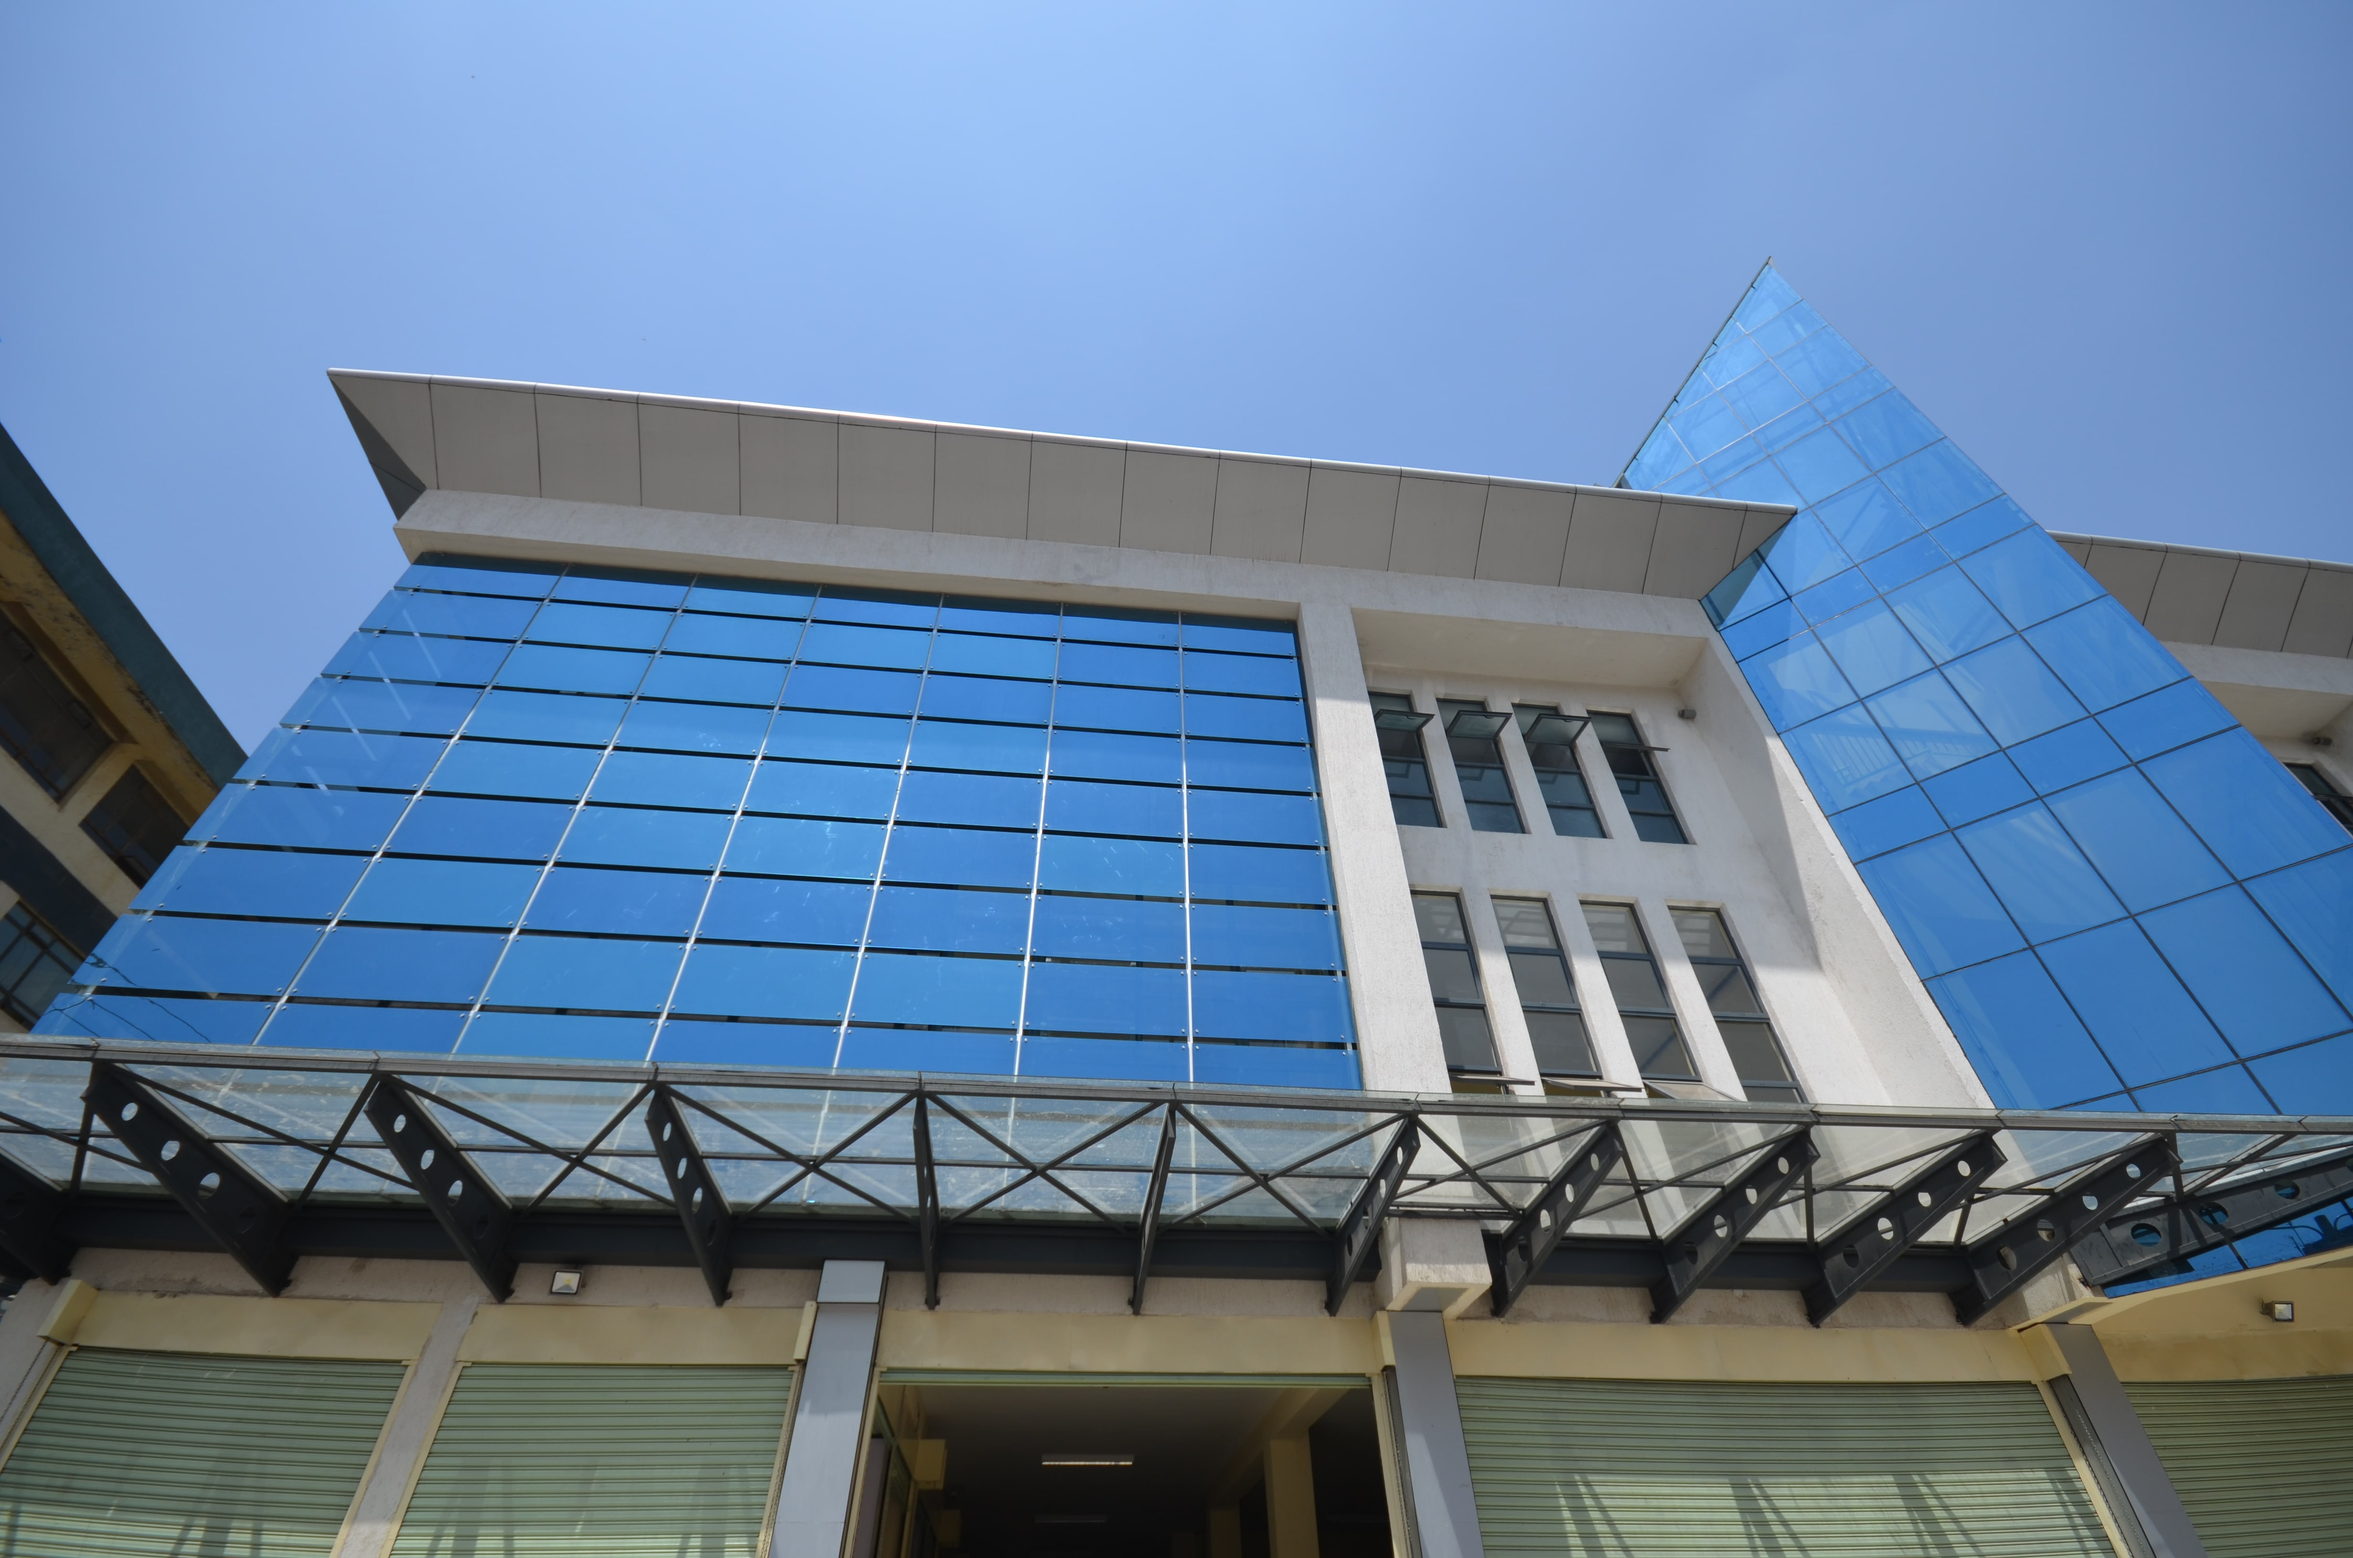
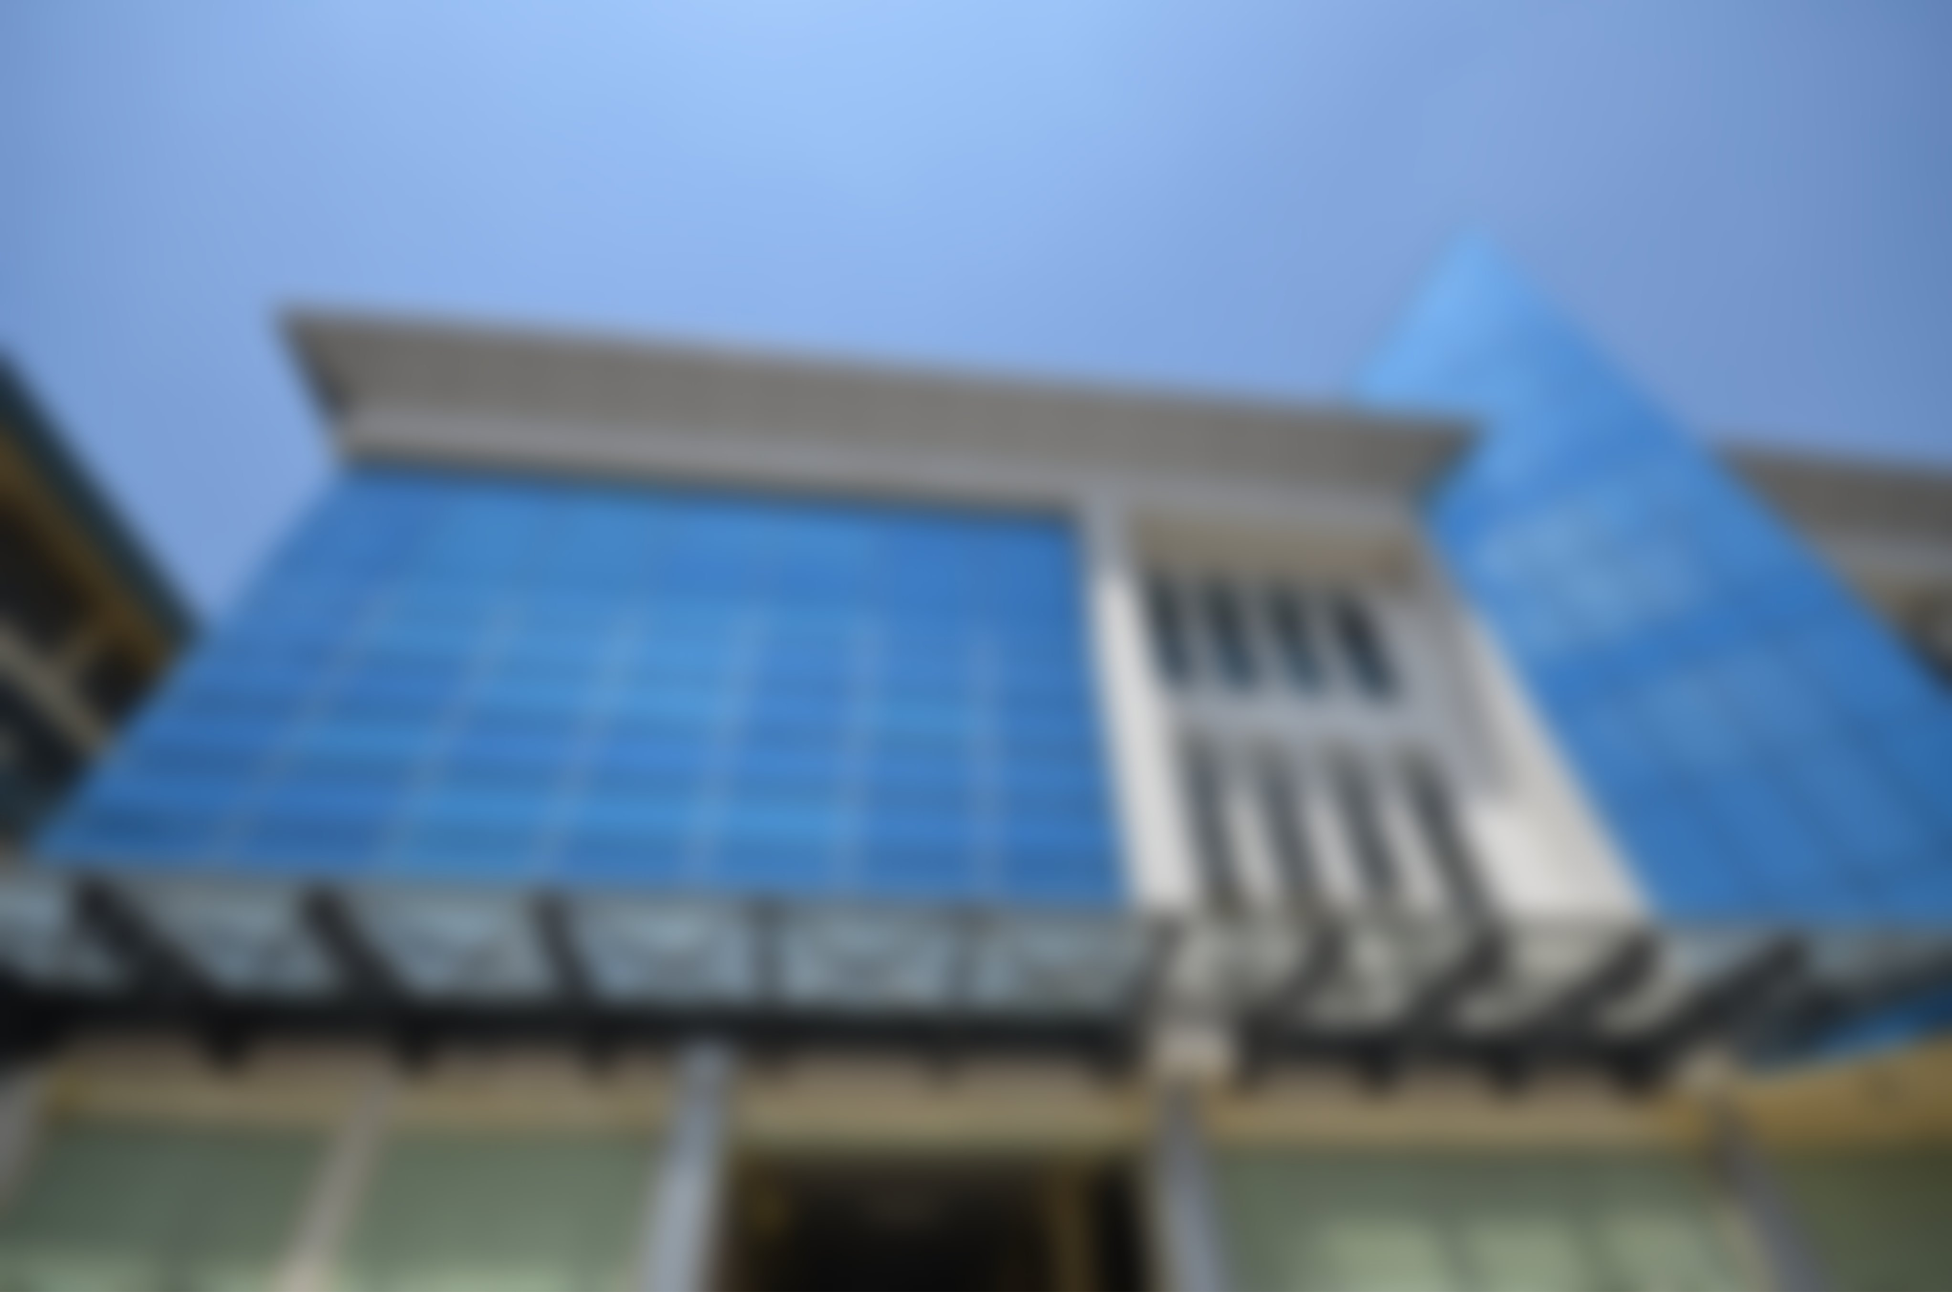
change hero background

diff --git a/index.html b/index.html
@@ -2,6 +2,7 @@
 <html lang="en">
 
 <head>
+    
     <title>Yare Business Park</title>
     <!-- Required meta tags -->
     <meta charset="utf-8">
@@ -57,7 +58,7 @@
 
                         <div class="carousel-inner">
                             <div class="carousel-item active">
-                                <img src="assets/images/Yare-17.jpg" class="img-fluid d-block w-90" alt="...">
+                                <img src="assets/images/Yare-36.jpg" class="img-fluid d-block w-90" alt="...">
                                 <div class="carousel-caption d-none d-md-block text-right pb-5">
                                     <h5 class="display-4">First slide label</h5>
                              
@@ -297,14 +298,14 @@
                               <img src="assets/images/img_2.jpg" class="card-img-top" alt="...">
                               <div class="card-body">
                                 <h5 class="card-title">Card title</h5>
-                                <p class="card-text"><small class="text-muted">Last updated 3 mins ago</small></p>
+                                <p class="card-text"><small class="text-primary">Last updated 3 mins ago</small></p>
                               </div>
                             </div>
                             <div class="card">
                               <img src="assets/images/img_2.jpg" class="card-img-top" alt="...">
                               <div class="card-body">
                                 <h5 class="card-title">Card title</h5>
-                                <p class="card-text"><small class="text-muted">Last updated 3 mins ago</small></p>
+                                <p class="card-text"><small class="text-danger">Last updated 3 mins ago</small></p>
 
                               </div>
                             </div>
@@ -312,7 +313,7 @@
                               <img src="assets/images/img_2.jpg" class="card-img-top" alt="...">
                               <div class="card-body">
                                 <h5 class="card-title">Card title</h5>
-                                <p class="card-text"><small class="text-muted">Last updated 3 mins ago</small></p>
+                                <p class="card-text"><small class="text-info">Last updated 3 mins ago</small></p>
 
                               </div>
                             </div>
@@ -324,14 +325,14 @@
                               <img src="assets/images/img_2.jpg" class="card-img-top" alt="...">
                               <div class="card-body">
                                 <h5 class="card-title">Card title</h5>
-                                <p class="card-text"><small class="text-muted">Last updated 3 mins ago</small></p>
+                                <p class="card-text"><small class="text-secondary">Last updated 3 mins ago</small></p>
                               </div>
                             </div>
                             <div class="card">
                               <img src="assets/images/img_2.jpg" class="card-img-top" alt="...">
                               <div class="card-body">
                                 <h5 class="card-title">Card title</h5>
-                                <p class="card-text"><small class="text-muted">Last updated 3 mins ago</small></p>
+                                <p class="card-text"><small class="text-warning">Last updated 3 mins ago</small></p>
 
                               </div>
                             </div>
@@ -339,7 +340,7 @@
                               <img src="assets/images/img_2.jpg" class="card-img-top" alt="...">
                               <div class="card-body">
                                 <h5 class="card-title">Card title</h5>
-                                <p class="card-text"><small class="text-muted">Last updated 3 mins ago</small></p>
+                                <p class="card-text"><small class="text-success">Last updated 3 mins ago</small></p>
 
                               </div>
                             </div>

diff --git a/css/style.scss b/css/style.scss
@@ -1,5 +1,5 @@
 header {
-    background: url(../assets/images/Yare-36.jpg) center no-repeat;
+    background: url(../assets/images/Yare-17.jpg) center no-repeat;
     background-size: cover;
     // min-height: 100vh;
     // max-height: 100vh;

diff --git a/css/style.css b/css/style.css
@@ -1,5 +1,5 @@
 header {
-  background: url(../assets/images/Yare-36.jpg) center no-repeat;
+  background: url(../assets/images/Yare-17.jpg) center no-repeat;
   background-size: cover;
 }
 
